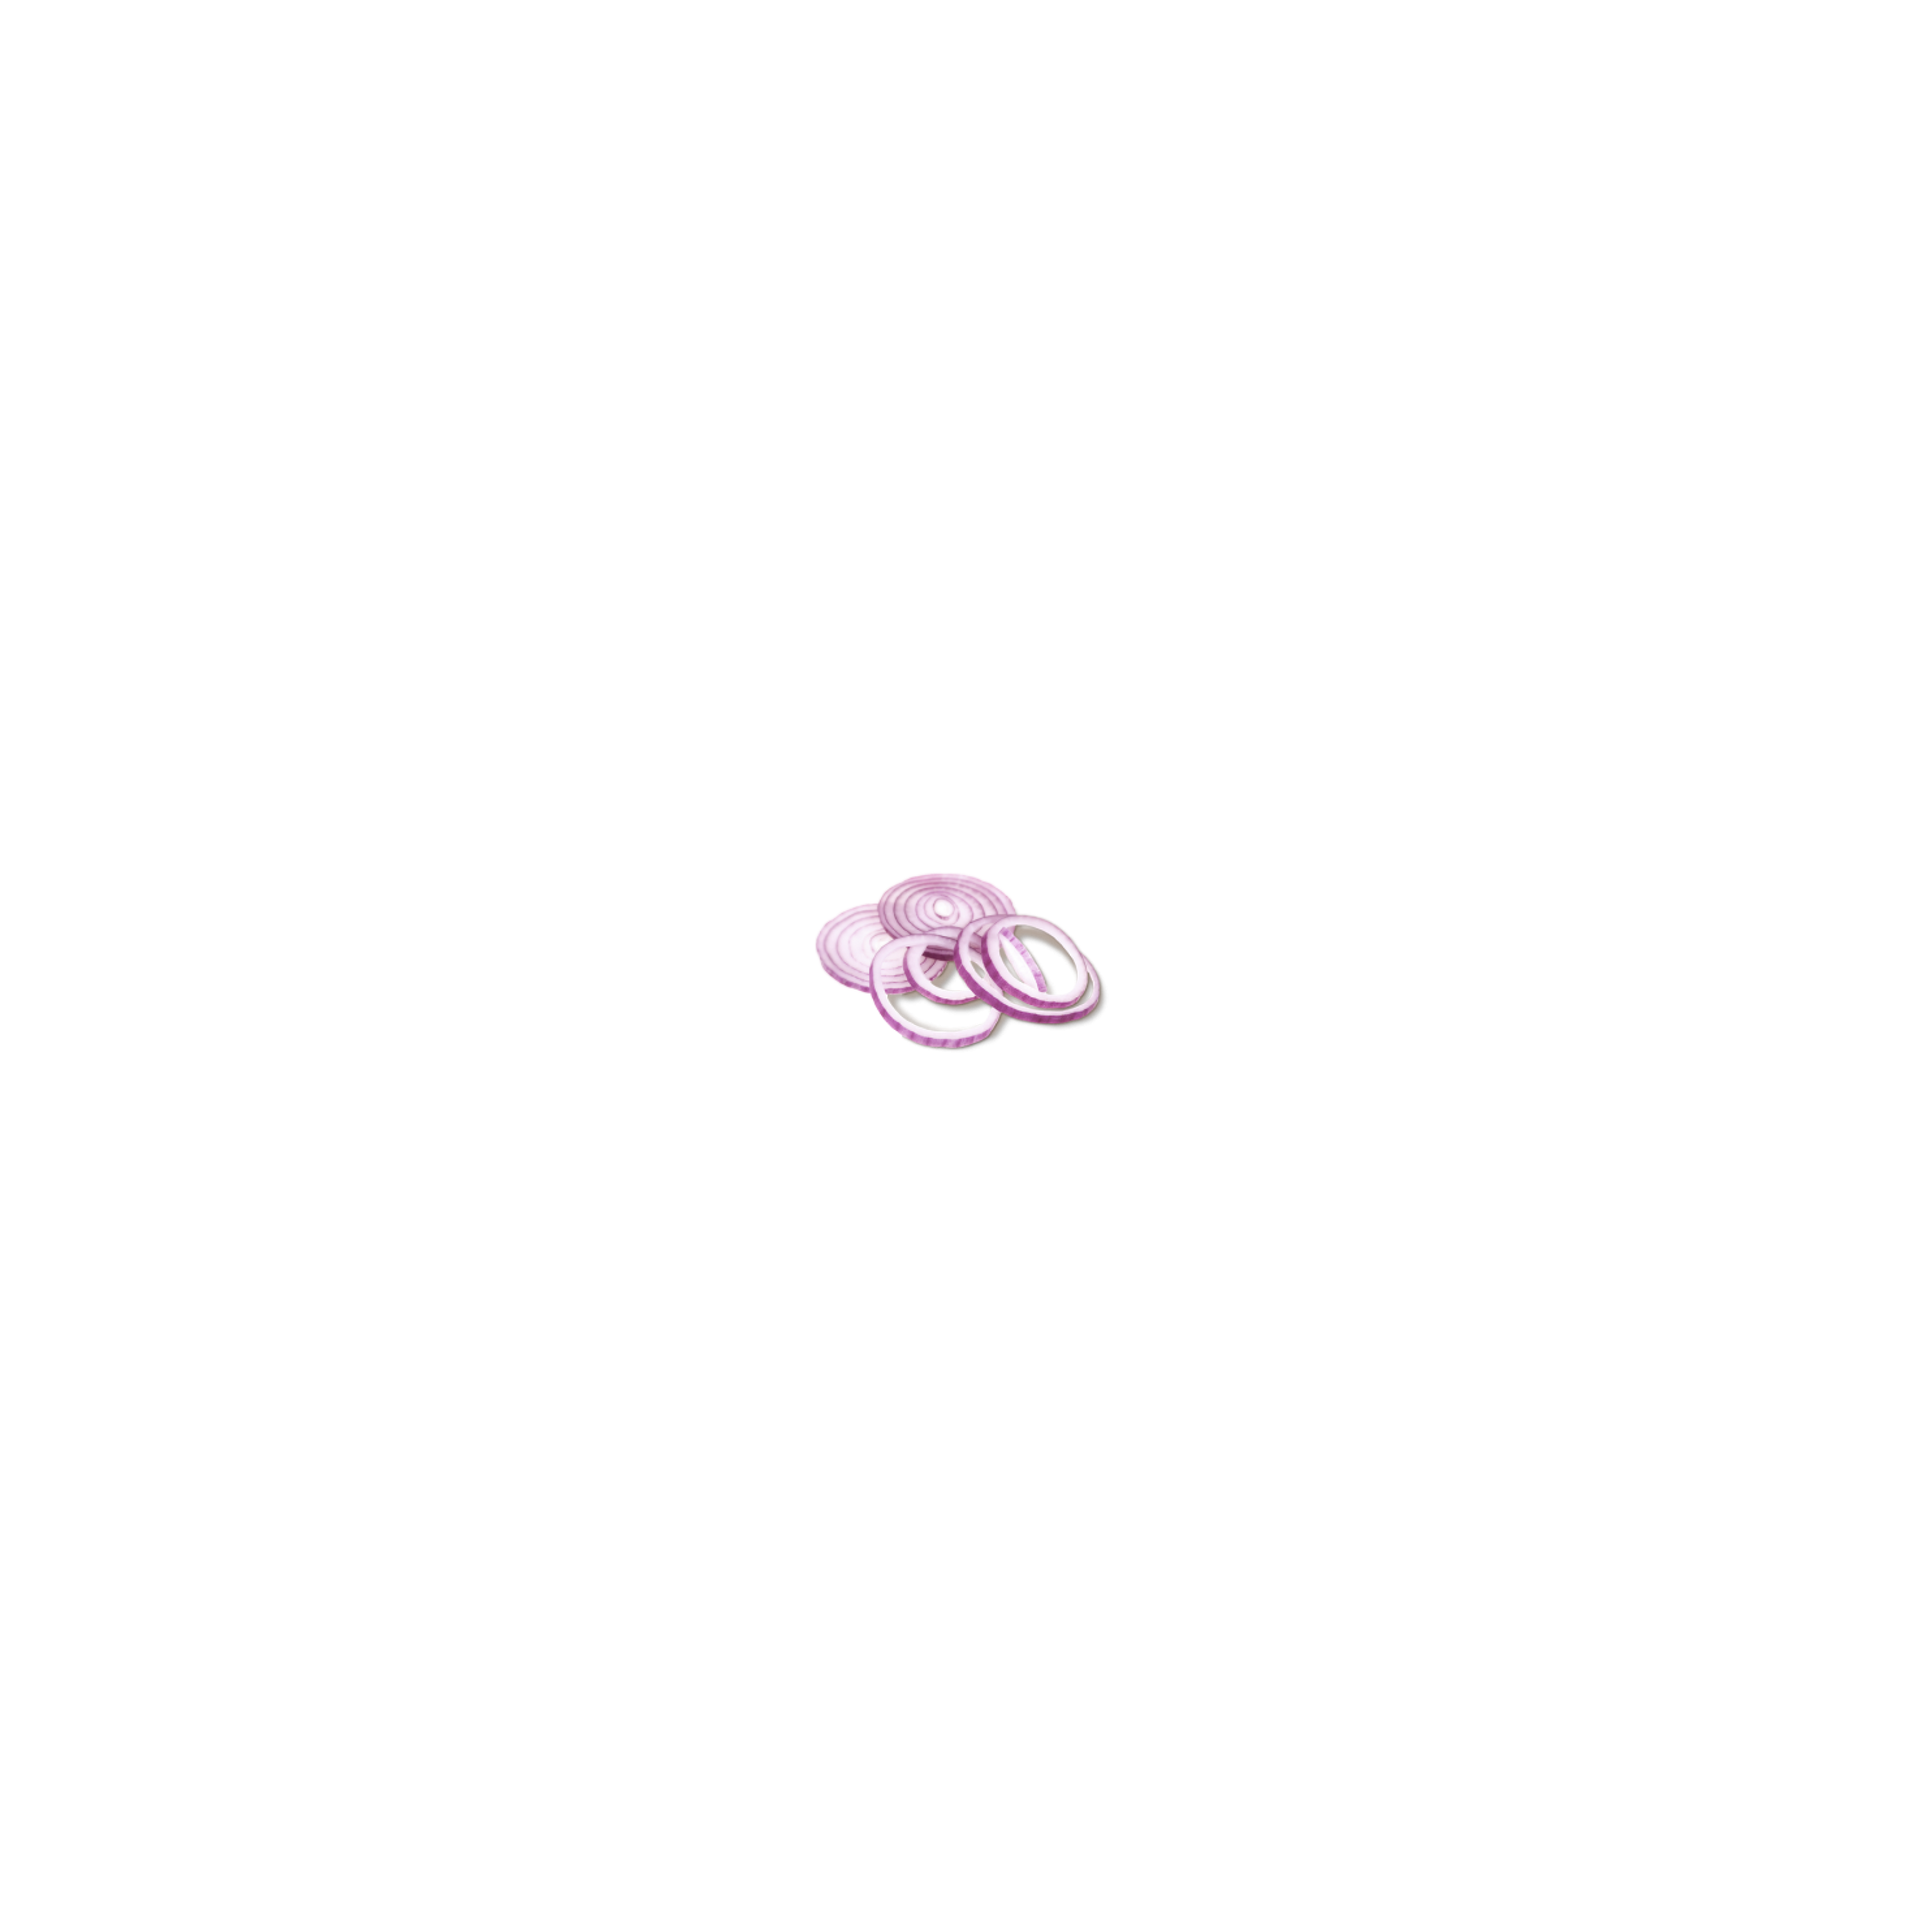
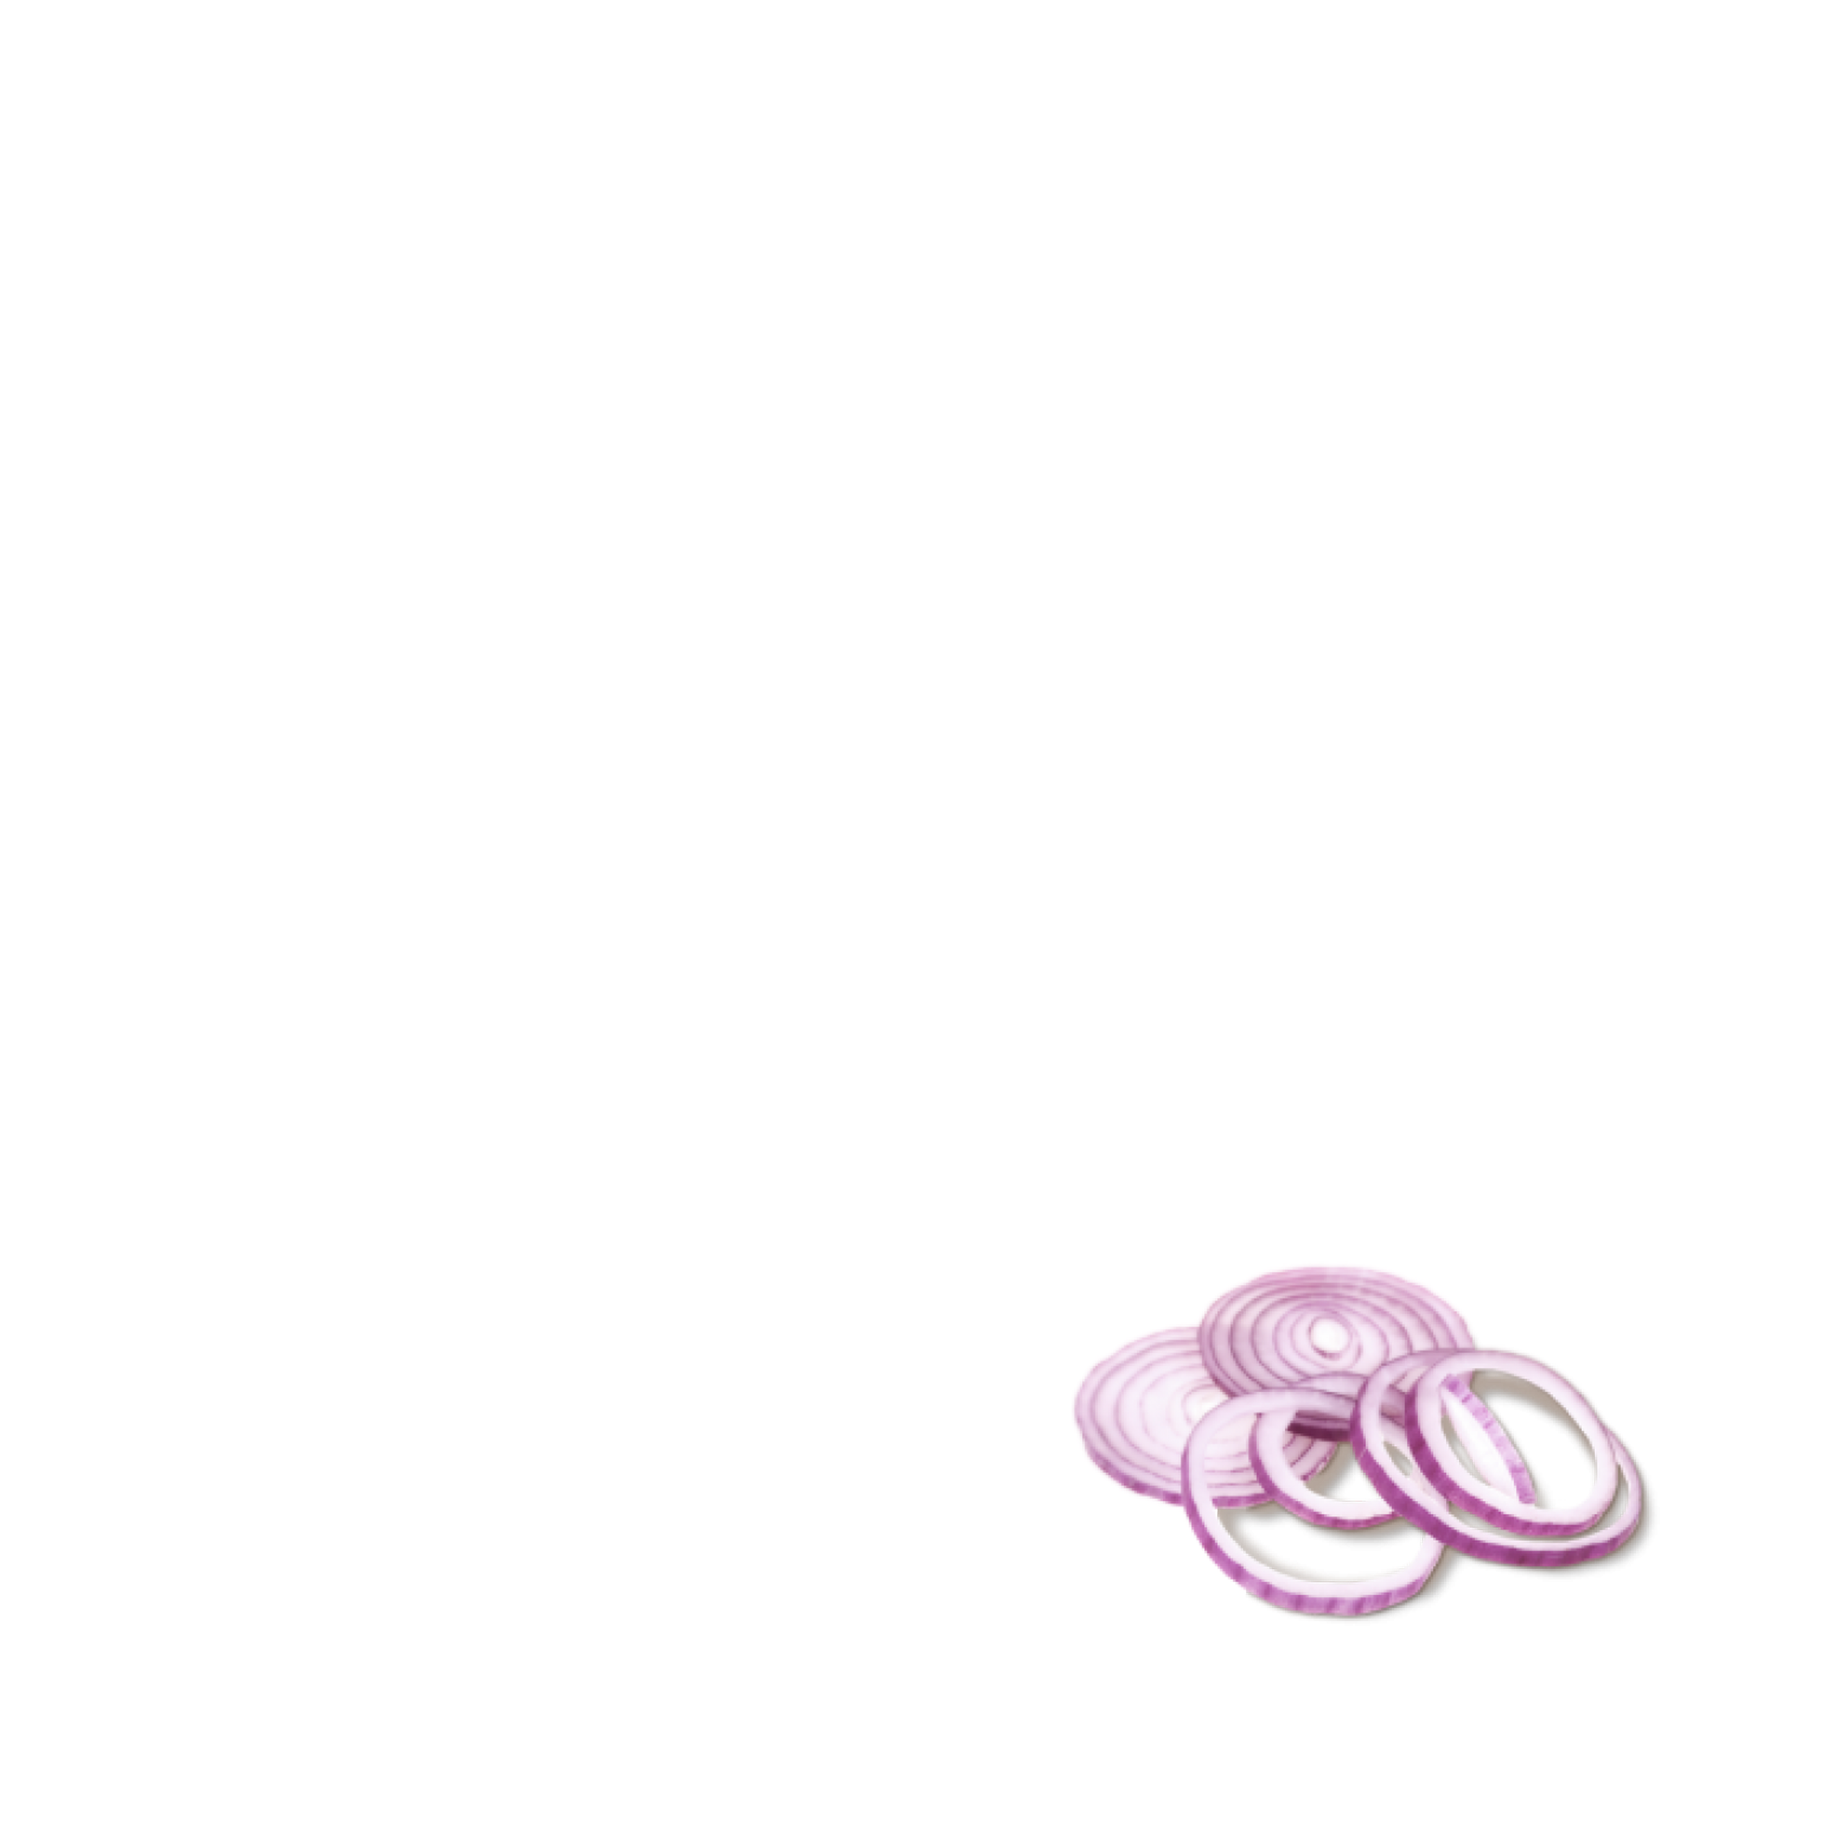
header is ggetting together

Changed region(s): [[0.5625, 0.6875, 0.9062, 0.875], [0.4062, 0.4375, 0.5938, 0.5625]]

diff --git a/index.html b/index.html
@@ -43,9 +43,12 @@
           </div>
         </div>
         <div class="header-image-box">
-          <img class="plate"  src="./images/pikemacho2.png" alt="pikemacho">
-          <!-- <img src="./images/onions2.png" alt=""> -->
-          <img class="smoke" src="./images/smoke2.png" alt="">
+          <img class="plate lax" data-lax-translate-y="0 0, 600 150" data-lax-preset="spinRev-45" src="./images/pikemacho2.png" alt="pikemacho">
+          <img src="./images/smoke2.png" alt="smoke">
+          <img src="./images/salt2.png" alt="salt">
+          <img class="smoke" src="./images/onions2.png" alt="onions">
+          <img class="egg" src="./images/egg2.png" alt="egg">
+          <img src="./images/potatos2.png" alt="potatos">
         </div>
         
       </header>

diff --git a/scss/layout/_header.scss b/scss/layout/_header.scss
@@ -23,15 +23,19 @@ header{
     }
   }
       .header-image-box {
-        position: relative;
+        // align-items: center;
+        // position: relative;
         img{
-          // position: absolute;
+          position: absolute;
+          top: 0px;
+          width: 55%;
         }
         .smoke {
 
         }
         .plate {
-          position: absolute;
+          z-index: 1;
+          // position: absolute;
           // width: 70%;
           // margin: 5vh;
         }

diff --git a/scss/main.css b/scss/main.css
@@ -10,7 +10,7 @@ html {
 }
 
 .navbar {
-  z-index: 1;
+  z-index: 100;
   padding-top: 1vh;
   position: fixed;
   width: 100%;
@@ -232,12 +232,14 @@ header .header-text-box div button {
   background-color: #1A191A;
 }
 
-header .header-image-box {
-  position: relative;
+header .header-image-box img {
+  position: absolute;
+  top: 0px;
+  width: 55%;
 }
 
 header .header-image-box .plate {
-  position: absolute;
+  z-index: 1;
 }
 
 * {

diff --git a/scss/layout/_navigation.scss b/scss/layout/_navigation.scss
@@ -7,7 +7,7 @@
   }
   
   .navbar {
-    z-index: 1;
+    z-index: 100;
     padding-top: 1vh;
     position: fixed;
     width: 100%;
